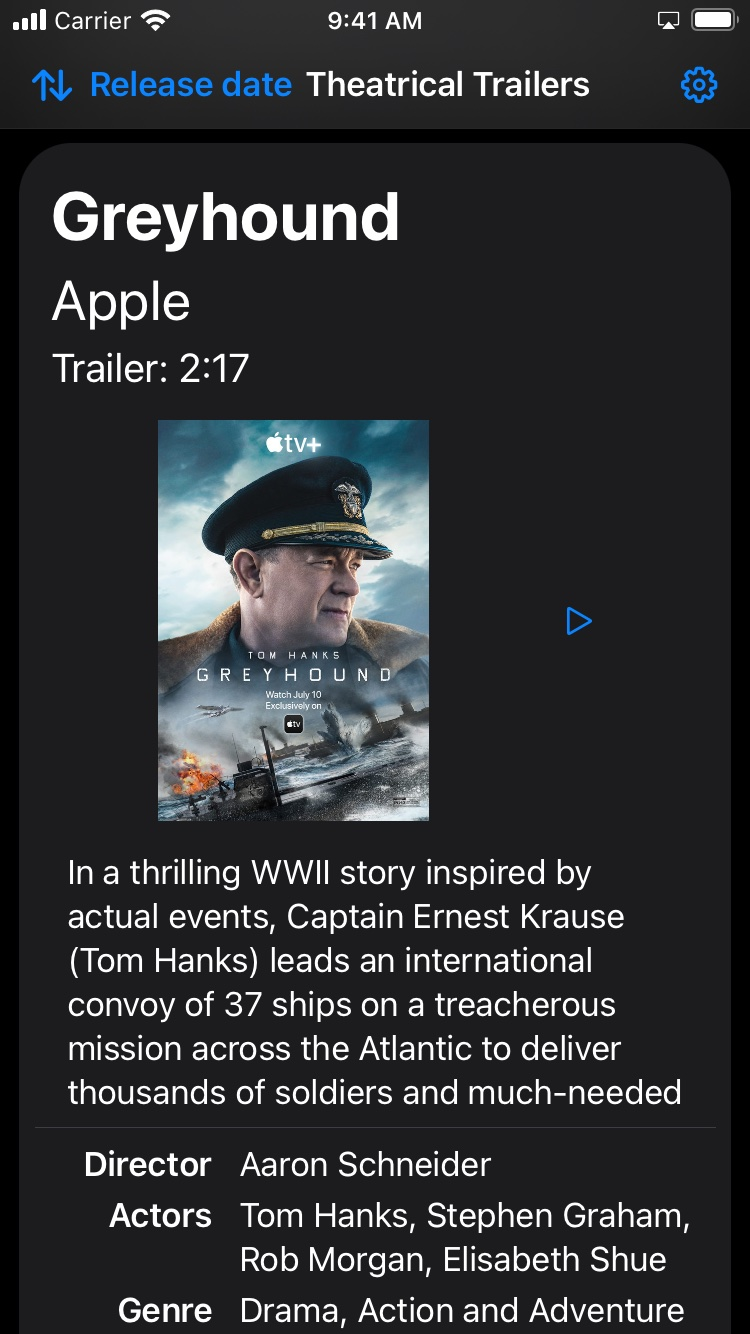
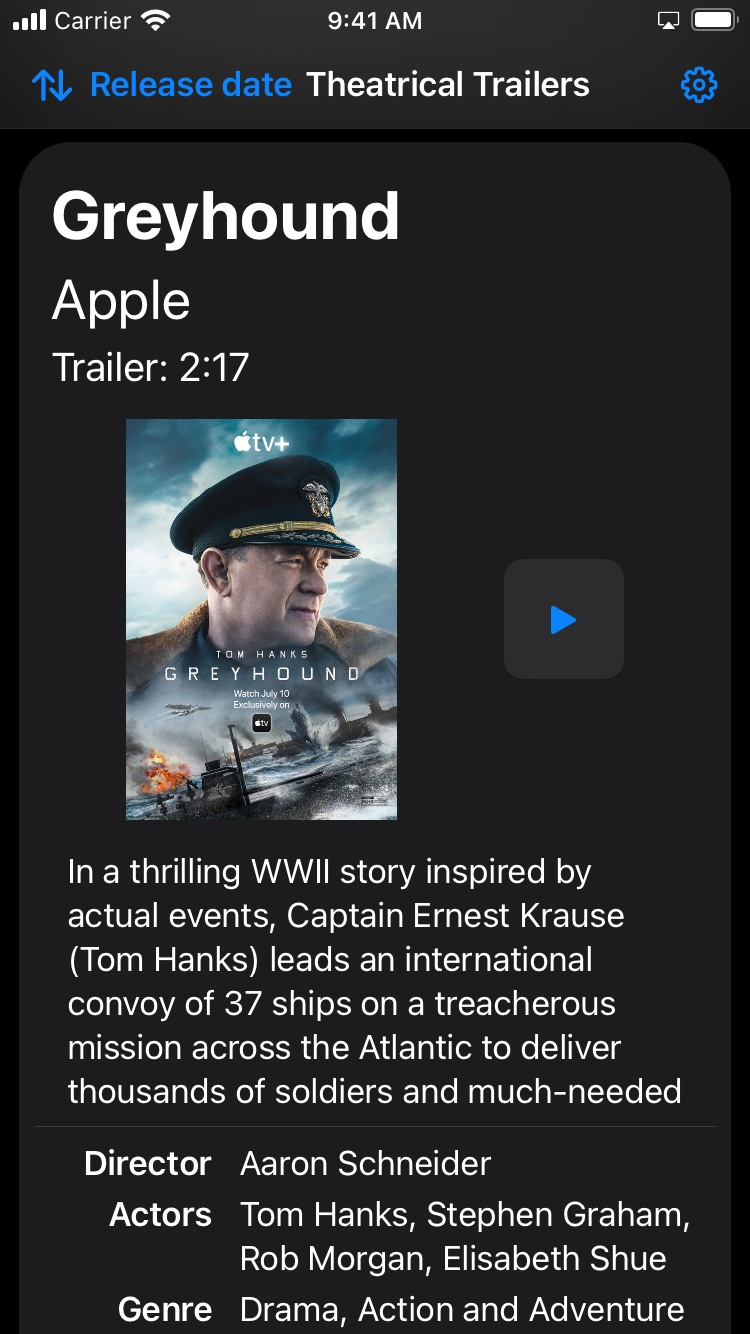
Clean up code (part of #3) Refactor code to limit uses of force unwrapped Optionals Add button shape to play button in MovieTrailerView when screen is connected Add animation to Settings dark mode toggle; appearance does not animate Update screenshot of app

diff --git a/TheatricalMovieTrailers/AppDelegate.swift b/TheatricalMovieTrailers/AppDelegate.swift
@@ -10,13 +10,17 @@ import SwiftUI
 
 @UIApplicationMain
 class AppDelegate: UIResponder, UIApplicationDelegate, ObservableObject {
-    @Published var selectedTrailerModel: MovieInfo! = nil {
+    @Published var selectedTrailerModel: MovieInfo? = nil {
         didSet {
-            self.posterImage = idsAndImages[selectedTrailerModel.id]!
+            if let model = selectedTrailerModel {
+                self.posterImage = idsAndImages[model.id] ?? nil
+            }
             if isPlaying {
                 isPlaying = false
-                DispatchQueue.main.asyncAfter(deadline: .now() + 0.1) {
-                    self.isPlaying = true
+                if selectedTrailerModel != nil {
+                    DispatchQueue.main.asyncAfter(deadline: .now() + 0.1) {
+                        self.isPlaying = true
+                    }
                 }
             }
         }
@@ -33,7 +37,7 @@ class AppDelegate: UIResponder, UIApplicationDelegate, ObservableObject {
     func fetchImagesFor(model movies: [MovieInfo]) {
         DispatchQueue.global(qos: .userInitiated).async {
             movies.forEach { movieInfo in
-                if let data = try? Data(contentsOf: URL(string: movieInfo.posterURL)!) {
+                if let url = URL(string: movieInfo.posterURL), let data = try? Data(contentsOf: url) {
                     let image = UIImage(data: data)
                     DispatchQueue.main.async {
                         self.idsAndImages.updateValue(image, forKey: movieInfo.id)

diff --git a/TheatricalMovieTrailers/Views/ExternalTrailerView.swift b/TheatricalMovieTrailers/Views/ExternalTrailerView.swift
@@ -9,17 +9,17 @@ import SwiftUI
 import AVKit
 
 struct ExternalTrailerView: View {
-    @Binding var model: MovieInfo
+    @State var model: MovieInfo
     @ObservedObject var appDelegate = UIApplication.shared.delegate as! AppDelegate
     @Binding var posterImage: UIImage?
     
     let avPlayer: AVPlayer?
     
-    init(model: Binding<MovieInfo>, image: Binding<UIImage?>) {
-        self._model = model
+    init(model: MovieInfo, image: Binding<UIImage?>) {
+        self._model = State(initialValue: model)
         self._posterImage = image
         
-        if let url = URL(string: model.wrappedValue.trailerURL) {
+        if let url = URL(string: model.trailerURL) {
             let avPlayer: AVPlayer? = AVPlayer(url: url)
             self.avPlayer = avPlayer
         } else {
@@ -72,7 +72,7 @@ struct ExternalTrailerView: View {
 
 struct ExternalTrailerView_Previews: PreviewProvider {
     static var previews: some View {
-        ExternalTrailerView(model: .constant(MovieInfo.Example.AQuietPlaceII), image: .constant(UIImage()))
+        ExternalTrailerView(model: MovieInfo.Example.AQuietPlaceII, image: .constant(UIImage()))
             .previewLayout(.fixed(width: 1280, height: 720))
     }
 }

diff --git a/TheatricalMovieTrailers/Views/MovieTrailerView.swift b/TheatricalMovieTrailers/Views/MovieTrailerView.swift
@@ -52,8 +52,12 @@ struct MovieTrailerView: View {
                                     appDelegate.selectedTrailerModel = model
                                 }
                             }, label: {
-                                Image(systemName: isPlaying ? "pause" : "play")
+                                Image(systemName: isPlaying ? "pause" : "play.fill")
+                                    .frame(width: 60, height: 60)
                             })
+                            .background(Color(UIColor.tertiarySystemBackground))
+                            .clipShape(RoundedRectangle(cornerRadius: 10, style: .continuous))
+                            
                             Spacer()
                         }
                         .frame(width: geo.size.width, height: geo.size.width * (9 / 16), alignment: .center)

diff --git a/TheatricalMovieTrailers/Views/SettingsView.swift b/TheatricalMovieTrailers/Views/SettingsView.swift
@@ -19,8 +19,11 @@ struct SettingsView: View {
         NavigationView {
             VStack(alignment: .leading) {
                 Toggle("Always use dark mode", isOn: $prefersDarkAppearance)
-                    .onChange(of: prefersDarkAppearance) { value in
-                        settings.prefersDarkAppearance = value
+                    .onTapGesture {
+                        withAnimation {
+                            prefersDarkAppearance.toggle()
+                            settings.prefersDarkAppearance = prefersDarkAppearance
+                        }
                     }
                 if prefersDarkAppearance {
                     Text("The app will always be in dark mode.")

diff --git a/TheatricalMovieTrailers/Views/ExternalView.swift b/TheatricalMovieTrailers/Views/ExternalView.swift
@@ -12,10 +12,10 @@ struct ExternalView: View {
     
     var body: some View {
         GeometryReader { geo in
-            if appDelegate.selectedTrailerModel != nil {
-                ExternalTrailerView(model: $appDelegate.selectedTrailerModel, image: $appDelegate.posterImage)
+            if let model = appDelegate.selectedTrailerModel {
+                ExternalTrailerView(model: model, image: $appDelegate.posterImage)
             } else {
-                Text("No movie selected")
+                Text("No trailer selected")
                     .font(.largeTitle)
                     .bold()
                     .padding()
